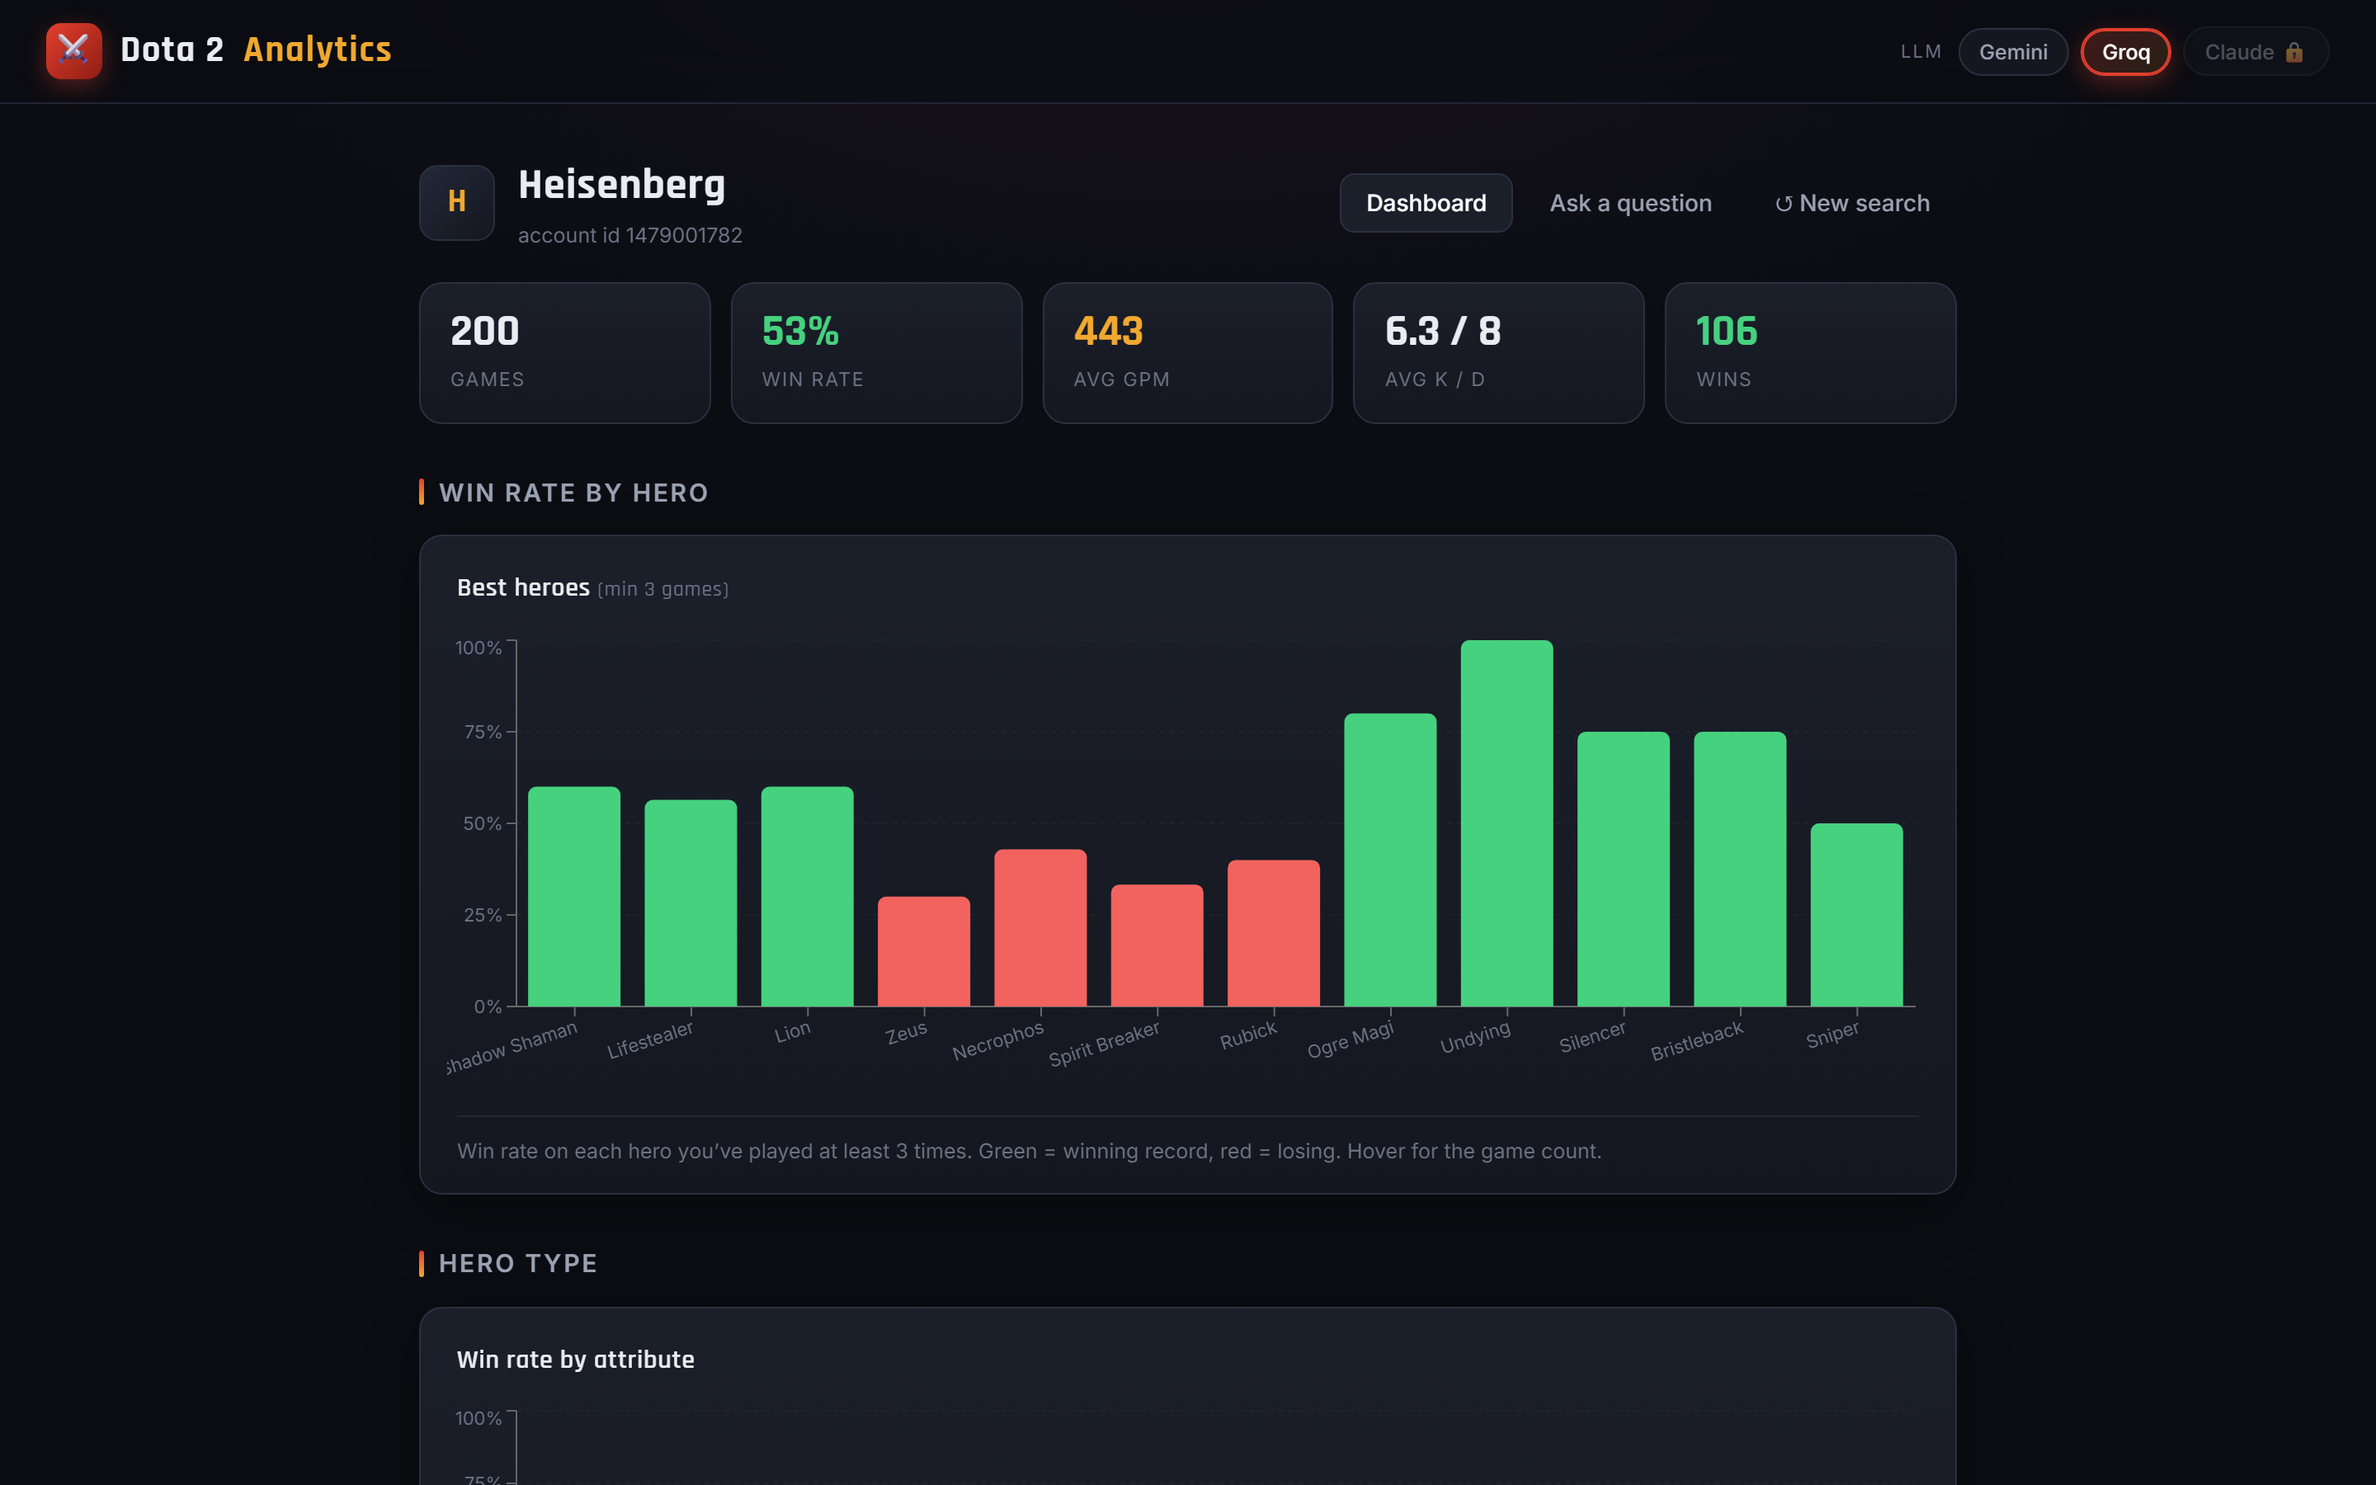
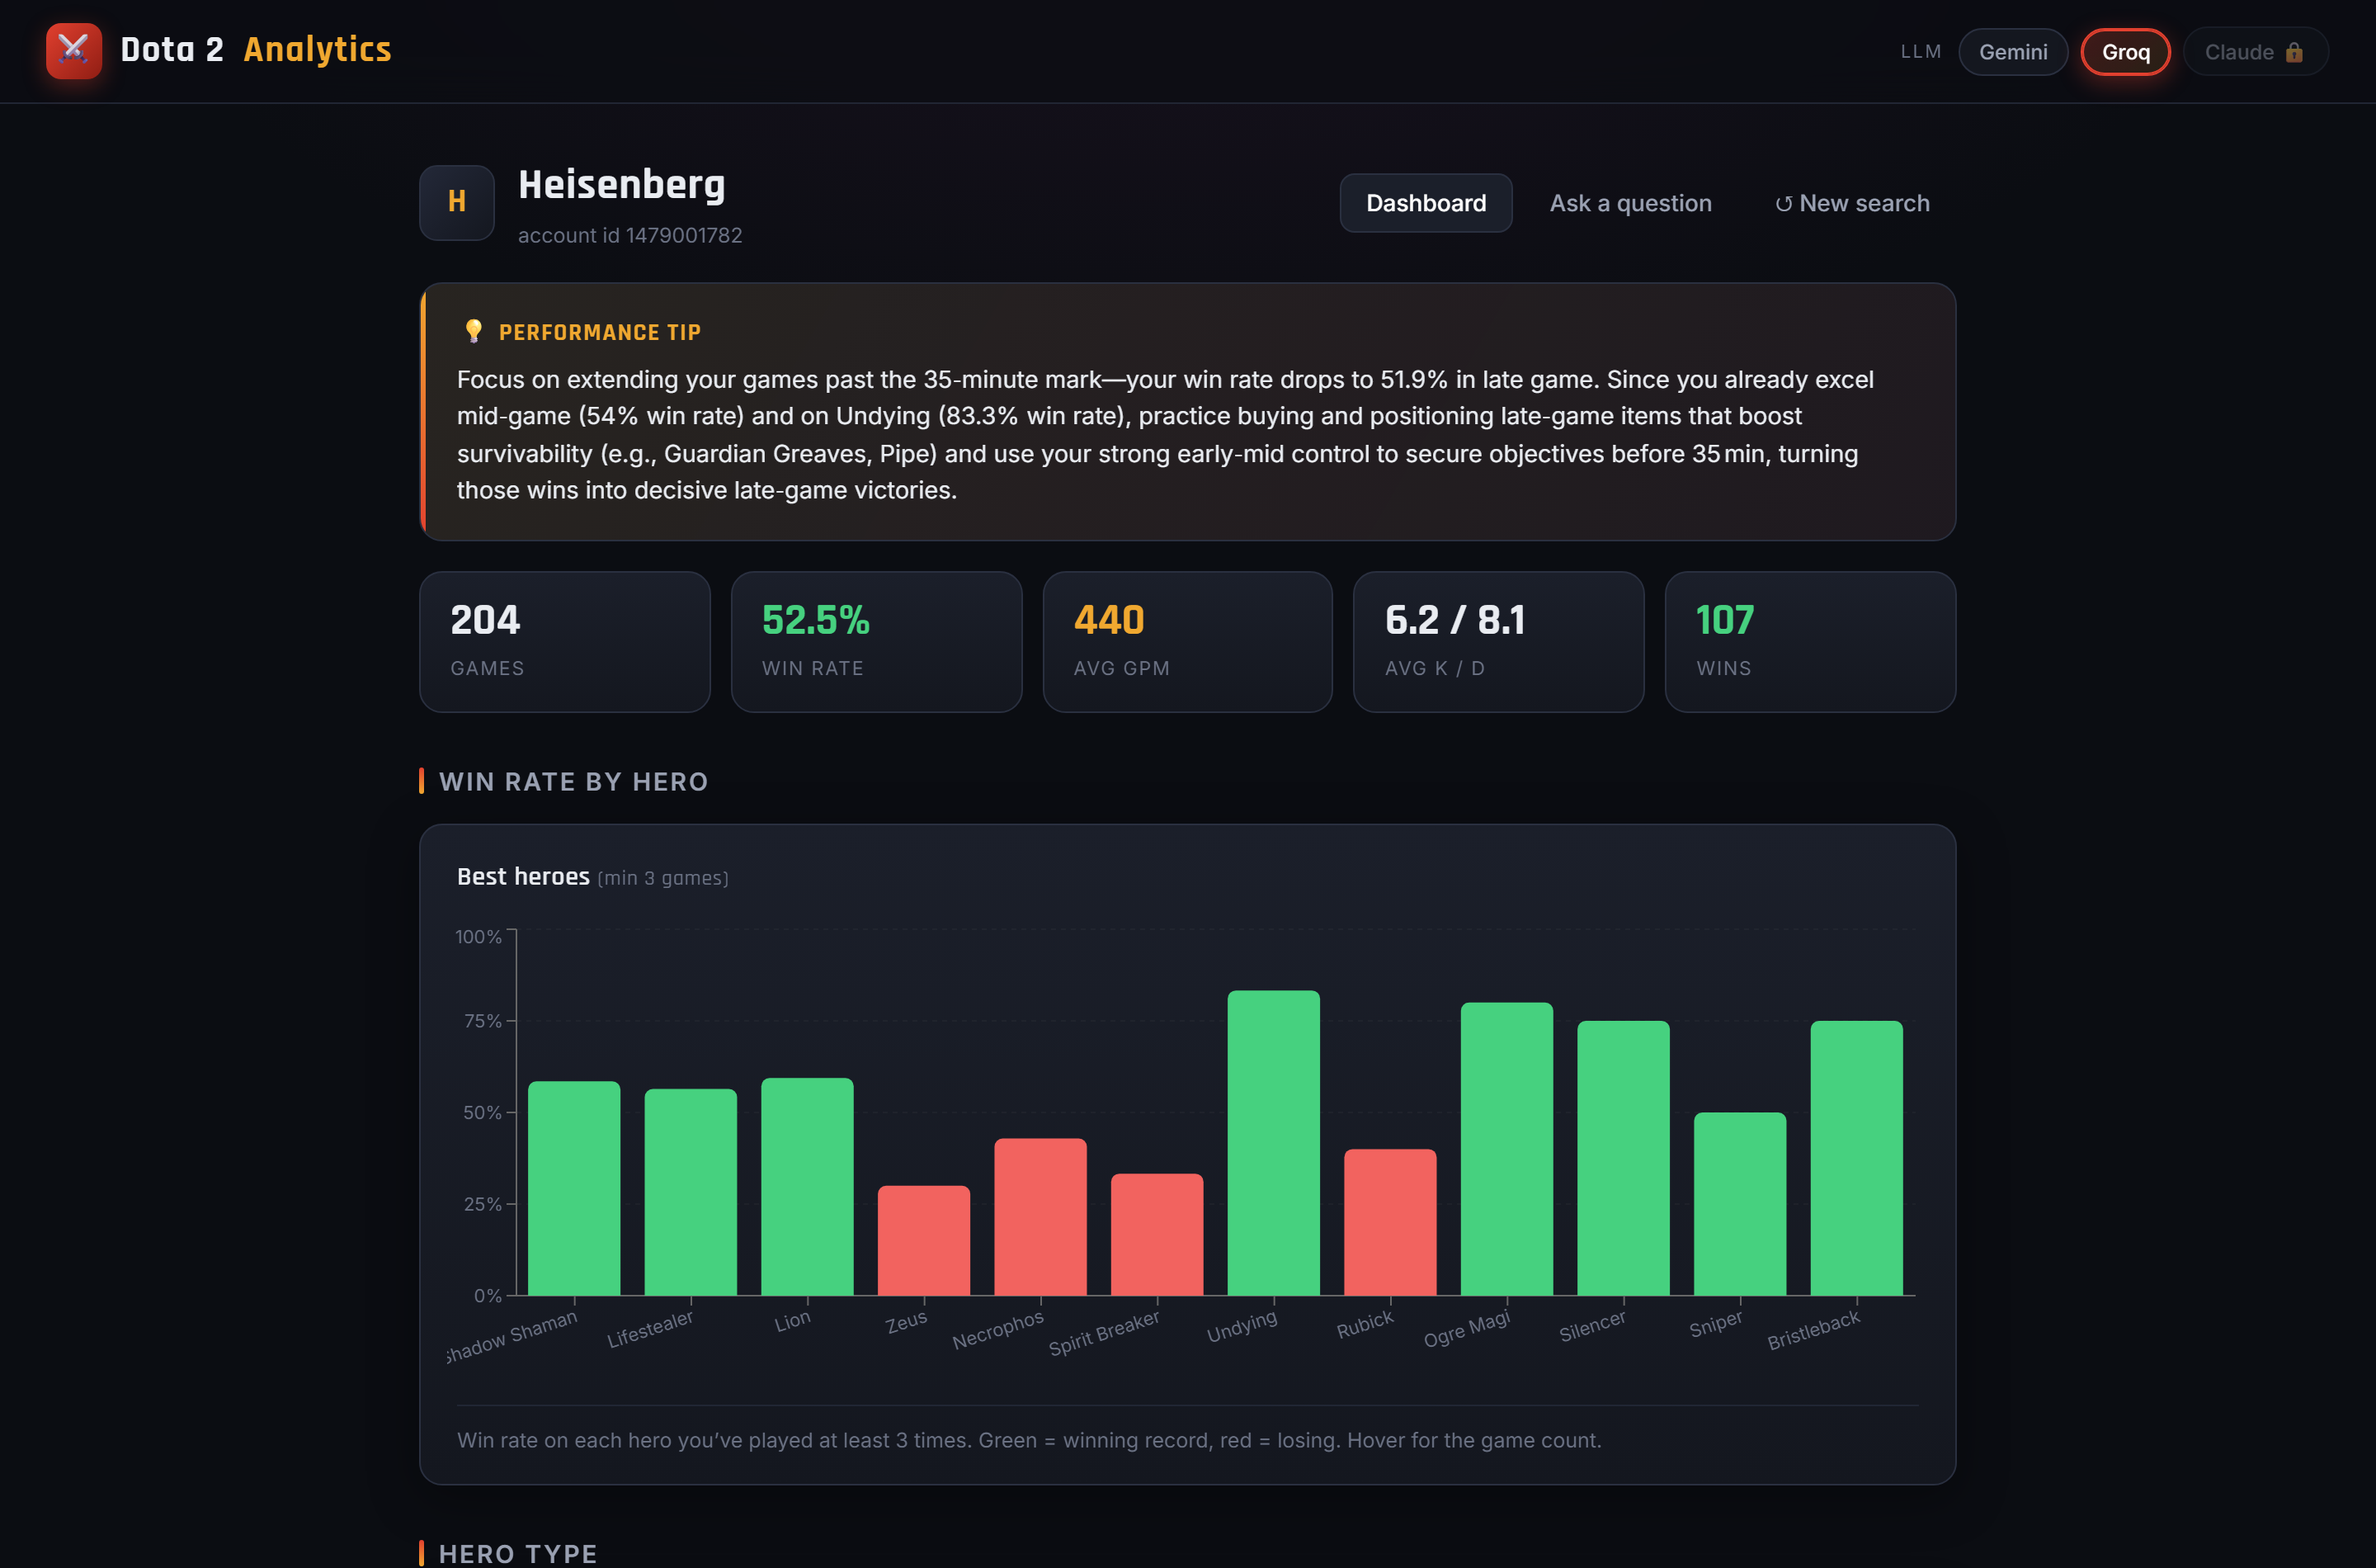
docs: add working performance-tip and natural-language chat screenshots

diff --git a/README.md b/README.md
@@ -35,17 +35,25 @@ syncs the recent match history in the background, then renders the dashboard.
 
 ### Dashboard
 
-KPIs (games, win rate, avg GPM, K/D, wins) sit above a **win-rate-by-hero** chart
-(green = winning record, red = losing), with further breakdowns by hero attribute,
-role, and game phase, plus a GPM trend — all computed in SQL over the synced data.
+An **LLM-written performance tip** (grounded in the player's own numbers) sits above
+the KPIs (games, win rate, avg GPM, K/D, wins) and a **win-rate-by-hero** chart
+(green = winning record, red = losing), all computed in SQL over the synced data.
 
-![Win rate by hero and headline KPIs](docs/screenshots/dashboard.png)
+![Performance tip, KPIs, and win rate by hero](docs/screenshots/dashboard.png)
 
 Scrolling down surfaces the full set of breakdowns — win rate by hero attribute
 (Strength / Agility / Intelligence / Universal), by role, by game phase, and a GPM
 trend across recent matches:
 
 ![Full dashboard — attribute, role, game-phase, and GPM-trend charts](docs/screenshots/dashboard-graphs.png)
+
+### Ask a question (natural-language chat)
+
+Ask in plain English; the app converts the question to SQL (Text-to-SQL), runs it
+against your data, and answers with the real numbers — always citing the game count
+so sample size is visible.
+
+![Natural-language chat answering a question over the player's data](docs/screenshots/chat.png)
 
 ## Architecture
 
